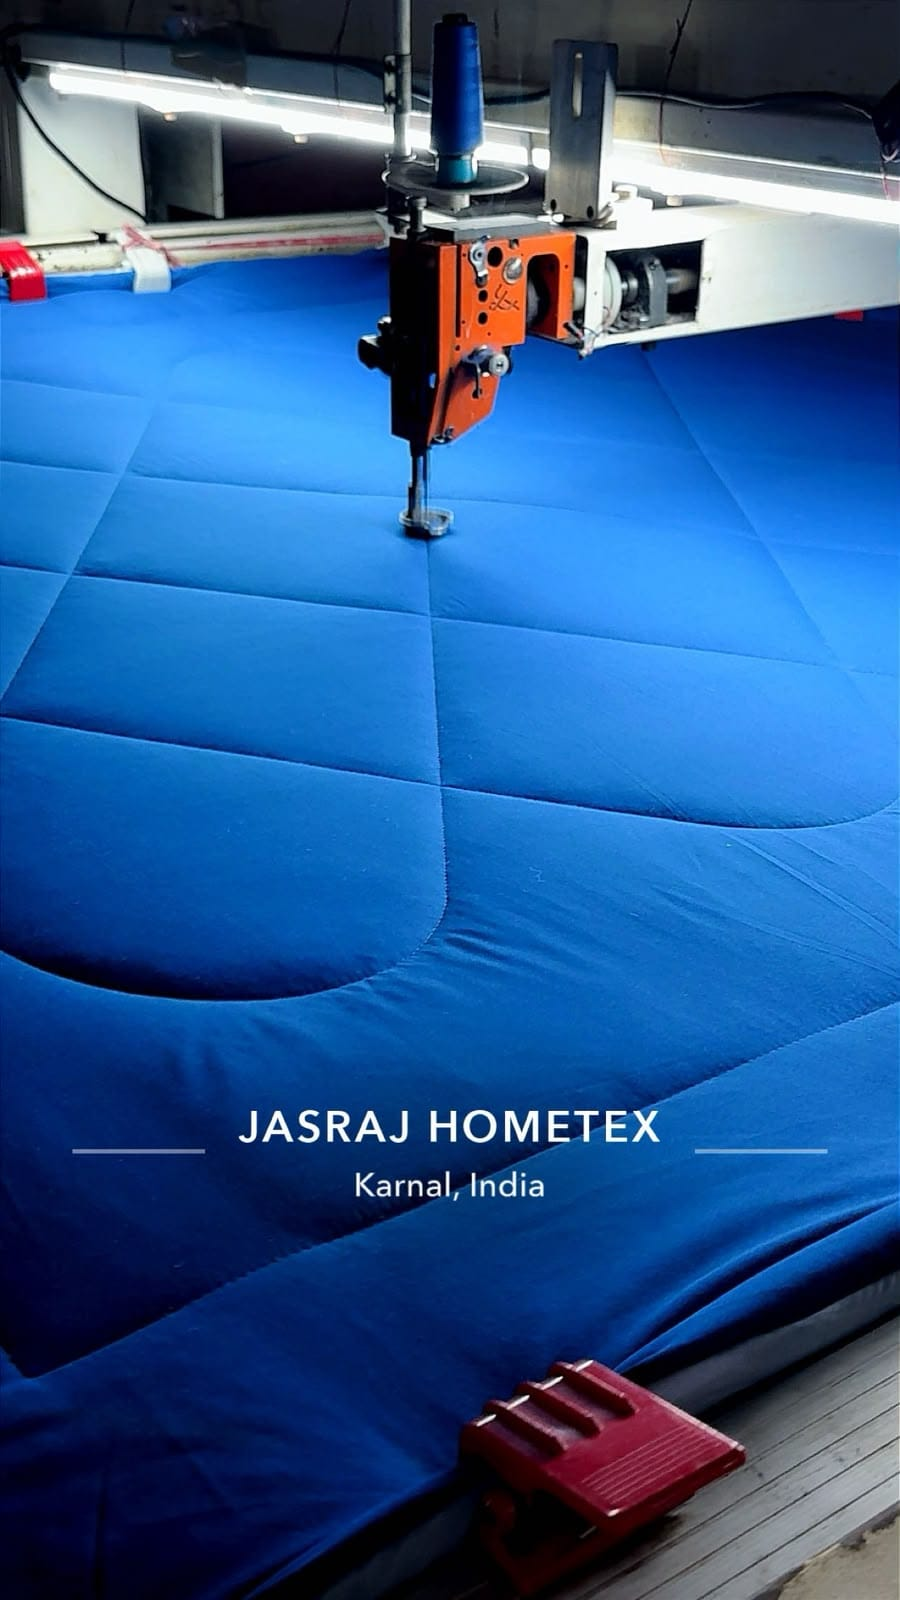
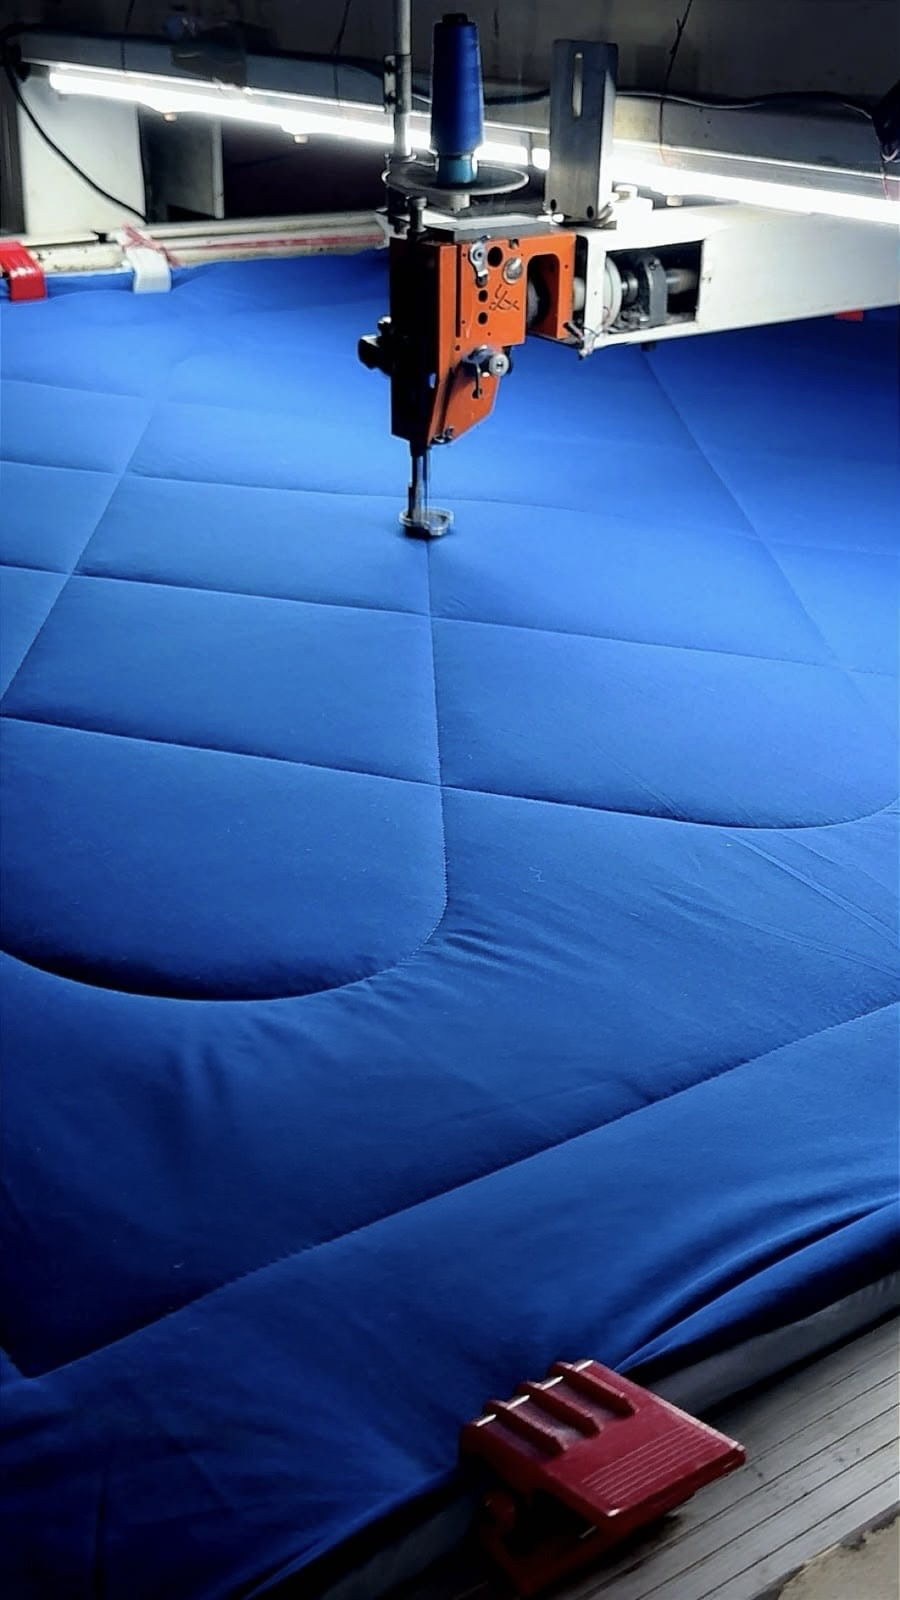
Use professional blue quilting photo in Today is an occasion
Replace the bedroom lifestyle shot with the clean factory quilting image for a sharper Made-in-India craftsmanship feel.

diff --git a/src/app/page.tsx b/src/app/page.tsx
@@ -44,8 +44,8 @@ export default function HomePage() {
         body="Starting your day, being around loved ones, and resting well is an occasion. Dress your bed in San Marco — soft loft, beautiful colour, Made in India."
         cta="Shop Bedding"
         href="/shop"
-        image="/hero/occasion-bedroom.jpg"
-        tone="blush"
+        image="/hero/occasion-quilting-blue.jpg"
+        tone="sage"
         imageFit="cover"
       />
 
